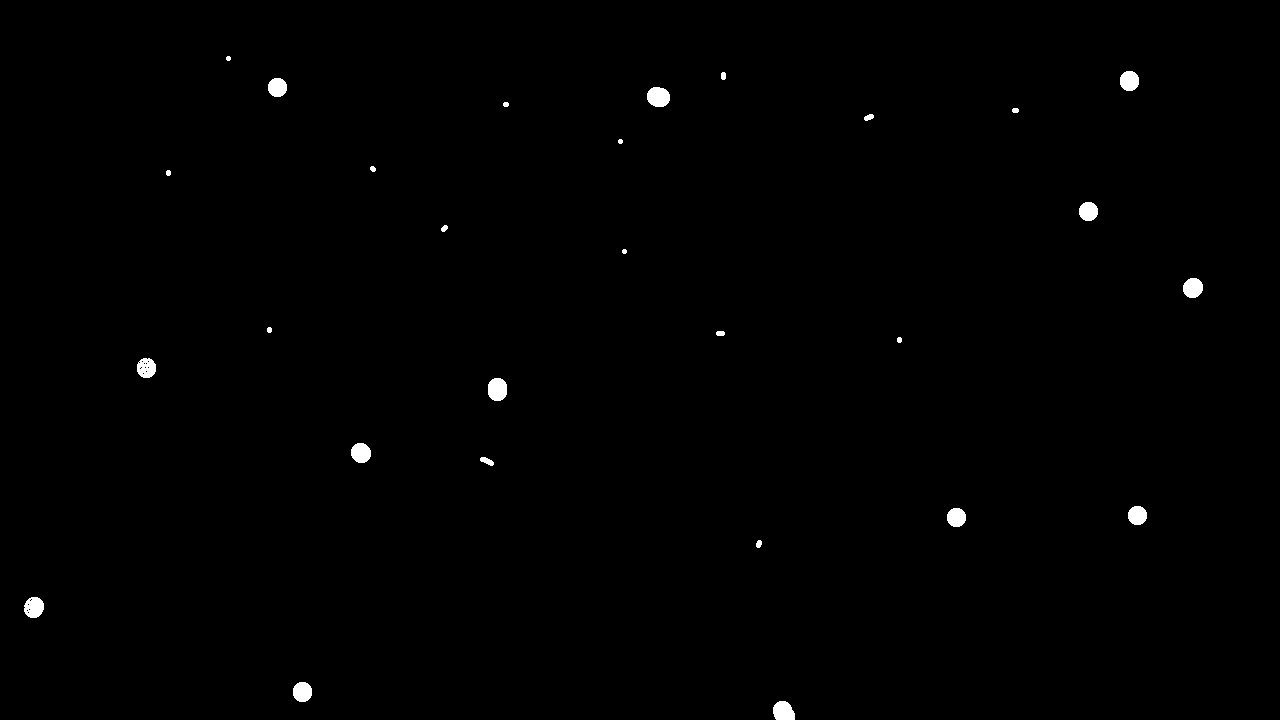
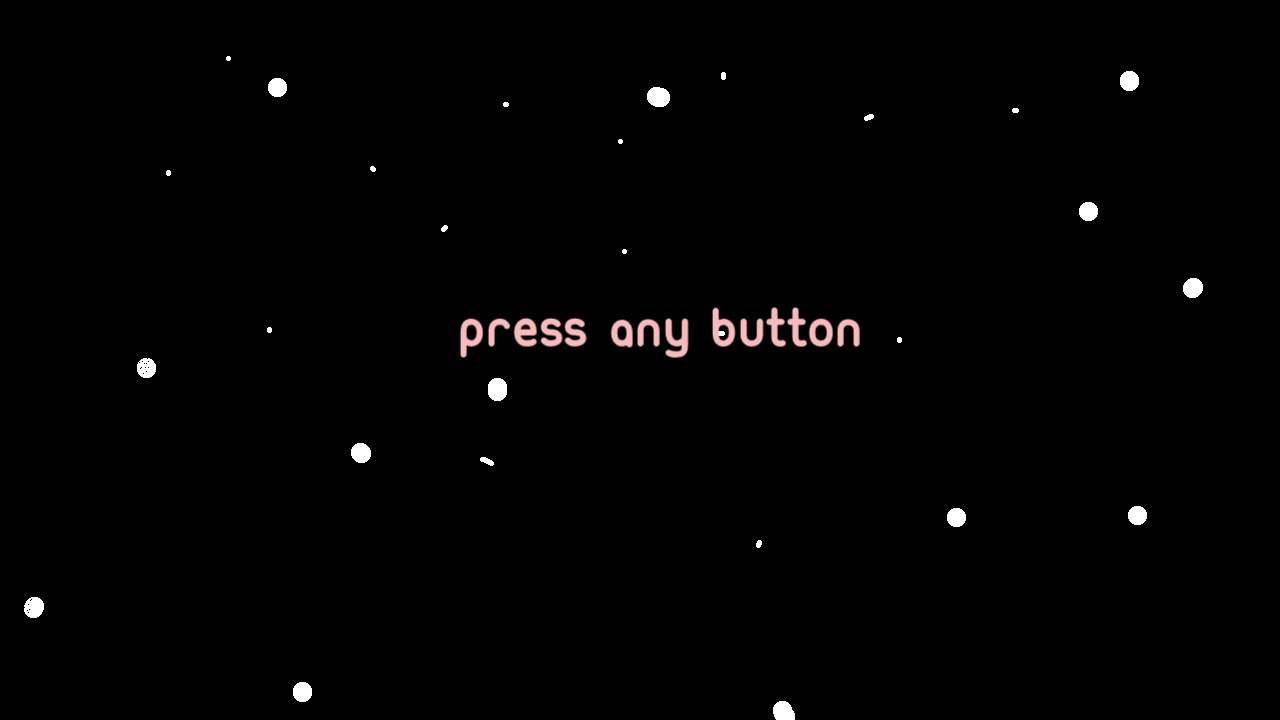
add press any button for title

Changed region(s): [[0.3438, 0.4278, 0.6875, 0.4889]]

diff --git a/main.py b/main.py
@@ -76,7 +76,7 @@ class Text(pygame.sprite.Sprite):
         elif on==False:
             self.color = (70,67,78)
         if self.bottom == True:
-            self.color = (100,97,108)
+            self.color = (250,200,200)
         self.image = self.myFont.render(self.message, 1, self.color)
 
 
@@ -580,16 +580,18 @@ class SlideShow(object):
 		super().__init__()
 		self.screen = screen
 		self.title_text = Text(self.screen,"Tasty Red Bean Simulator",(1280/2,720-720/5-720/20),100,False)
+		# self.instruction_text = Text(self.screen,"press any button",(1280/2,720-720/15-720/30),50,True)
 		self.text_group = pygame.sprite.Group()
 		self.text_group.add(self.title_text)
+		# self.text_group.add(self.instruction_text)
 		self.images = [
 		pygame.image.load("./assets/title/title1.png").convert_alpha(),
 		pygame.image.load("./assets/title/nasa_mars.jpeg").convert_alpha(),
 		pygame.image.load("./assets/title/title2.png").convert_alpha(),
+		pygame.image.load("./assets/title/title5.png").convert_alpha(),
 		pygame.image.load("./assets/title/nasa_rover.jpeg").convert_alpha(),
 		pygame.image.load("./assets/title/title3a.png").convert_alpha(),
 		pygame.image.load("./assets/title/title4.png").convert_alpha(),
-		pygame.image.load("./assets/title/title5.png").convert_alpha()
 		]
 		self.index = 0
 		self.image = self.images[self.index]
